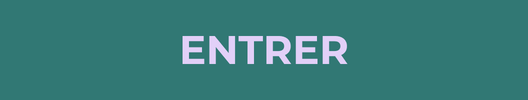
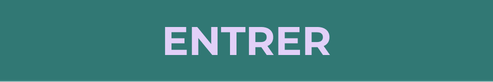
Scale down de la page

Changed region(s): [[0.3347, 0.3171, 0.6694, 0.6829], [0.0, 0.9756, 1.0, 1.0]]

diff --git a/Visualisation_Interface/grid.py b/Visualisation_Interface/grid.py
@@ -53,7 +53,7 @@ class ClientUi(Tk):
         self.client_network = ClientNetwork("Utilisateur", self)  # Instance de ClientNetwork
 
         # Configuration de la fenêtre
-        self.geometry("1400x1024")
+        self.geometry("1280x832")
         self.title("RSCHAT")
 
         # Initialisation du thème
@@ -272,13 +272,13 @@ class GroupCreationPage(ThemedFrame):
         self.grid_columnconfigure(0, weight=1)
         for i in range(10):
             self.grid_rowconfigure(i, weight=1)
-        self.configure(bg="#317874")
+        self.configure(bg="#E2D0F8")
 
         #RSCHAT
         Label(self, text="RSCHAT", bg="#317874", fg="#E2D0F8", font=("Montserrat", 24, "bold")).grid(column=0, row=1, sticky="nw")
 
         #Rectangle principal 
-        grouppad = Button(self, relief="flat", bd=0, bg="#317874", activebackground="#317874", highlightbackground="#317874")
+        grouppad = Button(self, relief="flat", bd=0, bg="#E2D0F8", activebackground="#E2D0F8", highlightbackground="#E2D0F8")
         self.add_button_image(
             grouppad,
             image_key="grouppad_button",
@@ -288,11 +288,11 @@ class GroupCreationPage(ThemedFrame):
         grouppad.grid(column=0,row=1)
         
         # Entry du groupname
-        groupname_entry = Entry(self, bd=0, highlightthickness=0, bg="#317874", fg="#ffffff")
+        groupname_entry = Entry(self, bd=0, highlightthickness=0, bg="#E2D0F8", fg="#ffffff")
         groupname_entry.grid(column=0, row=1, ipadx=230, ipady=10)
 
         # Bouton valider
-        valider_button = Button(self, relief="flat", bd=0, bg="#317874", activebackground="#317874", highlightbackground="#317874", command=lambda: [print(f"{groupname_entry.get()}"), controller.show_frame(LandingPage)])
+        valider_button = Button(self, relief="flat", bd=0, bg="#E2D0F8", activebackground="#E2D0F8", highlightbackground="#E2D0F8", command=lambda: [print(f"{groupname_entry.get()}"), controller.show_frame(LandingPage)])
         self.add_button_image(
             valider_button,
             image_key="groupname_entry_button",
